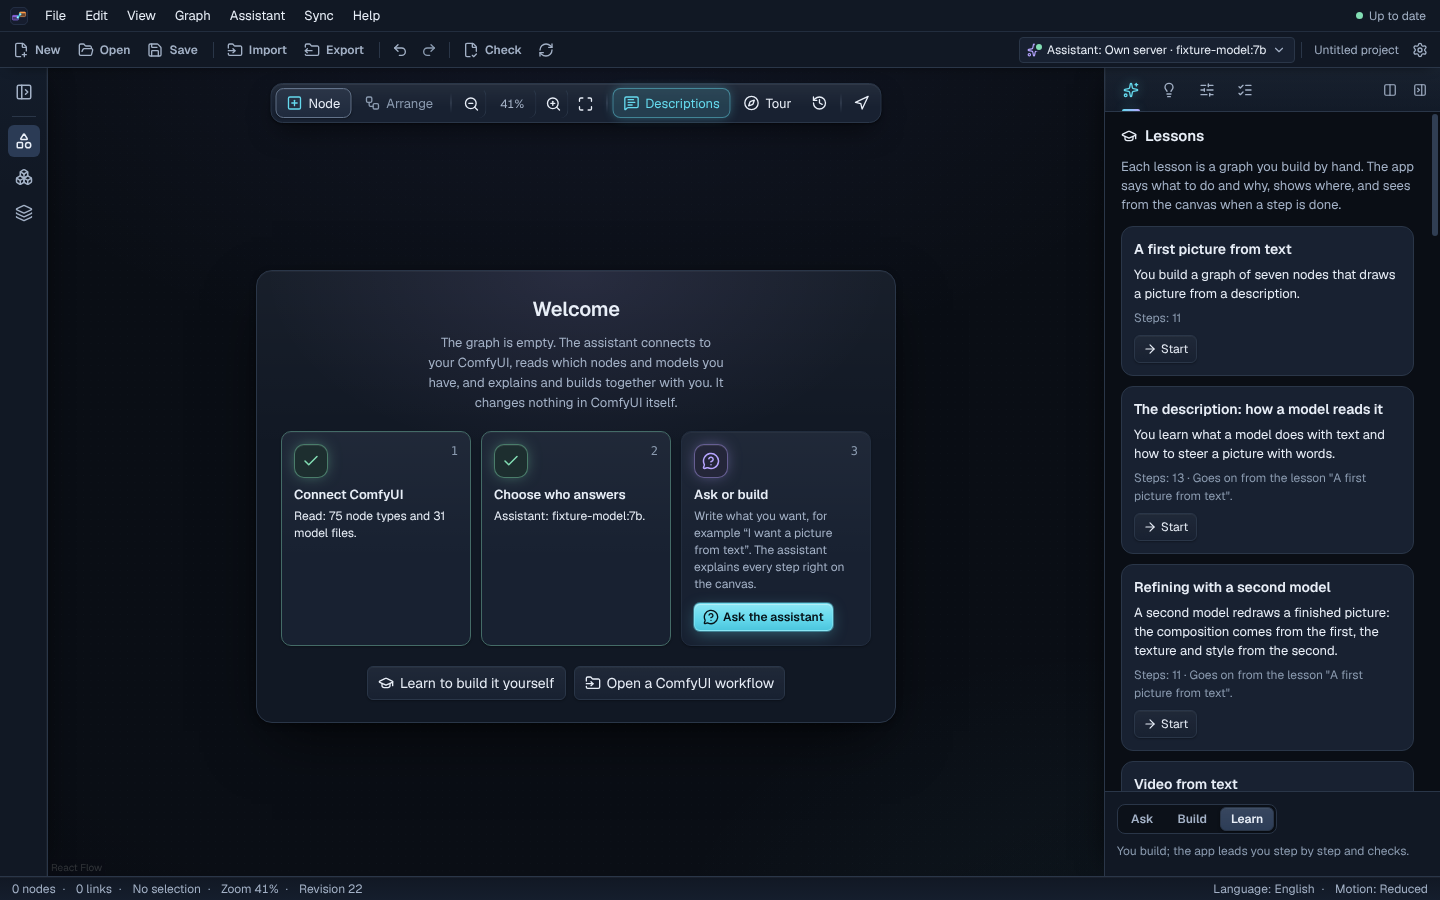
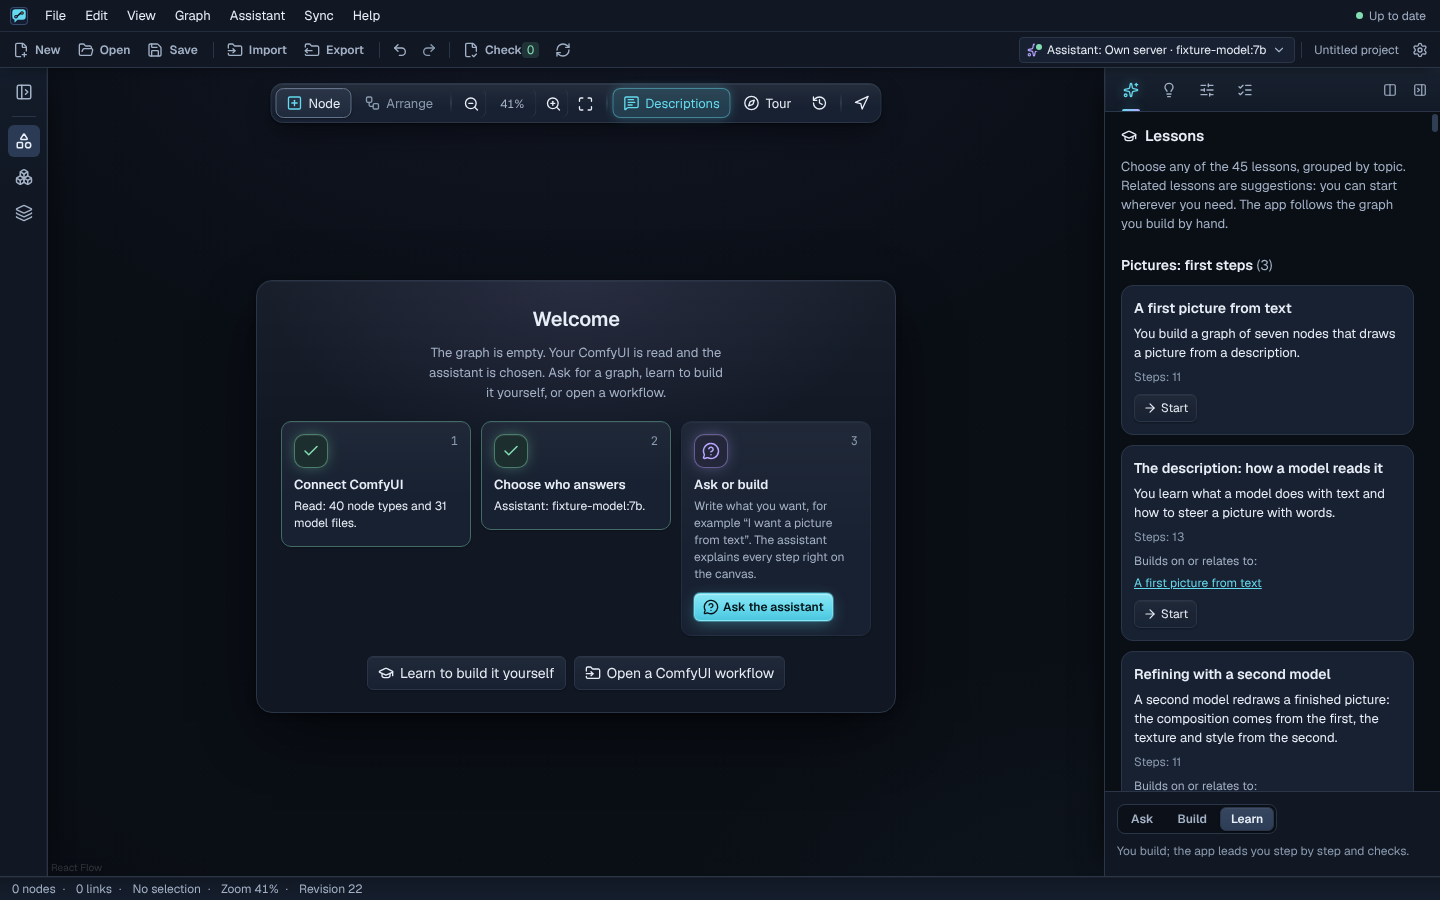
pictures: the first-start path through a plain ComfyUI, fresh pictures from 0.9.0
The capture now starts the fake ComfyUI (on 8188 when free) and goes the way a new
person does: Connect… on the welcome card, Find on this computer, Check ComfyUI,
Save, Read ComfyUI. 11-settings-connection shows that dialog; the lessons picture
shows the grouped list. All thirteen pictures in both languages, hero.png and
social-preview.png are made again from this build.

Claude-Session: https://claude.ai/code/session_01BDQbvdTJWeFGcfZcoqW545

diff --git a/tests/e2e/public-shots/public.test.ts b/tests/e2e/public-shots/public.test.ts
@@ -3,7 +3,7 @@ import * as fs from 'fs';
 import * as os from 'os';
 import * as path from 'path';
 import { createTranslator } from '../../../src/shared/i18n';
-import { startFakeMcp, type FakeMcp } from '../../fixtures/mcp/fakeMcpServer';
+import { startFakeComfy, type FakeComfy } from '../../fixtures/comfy/fakeComfy';
 import { nestedSubgraphWorkflow } from '../fixtures/nestedSubgraphWorkflow';
 import { startShowcaseLlm, SHOWCASE_MODEL, SHOWCASE_QUESTIONS, type ShowcaseLanguage, type ShowcaseLlm } from './showcaseLlm';
 import { PUBLIC_SHOTS } from './shotList';
@@ -70,7 +70,15 @@ for (const language of LANGUAGES) {
     const T = createTranslator(language);
     const t = (key: string, values?: Record<string, unknown>) => String(T(key, values as never));
     fs.mkdirSync(path.join(ROOT, language), { recursive: true });
-    const mcp: FakeMcp = await startFakeMcp({ video: true });
+    // A plain ComfyUI, as most people have it: on 8188 when that port is free, so "Find on this computer" finds it.
+    let comfy: FakeComfy;
+    let found = true;
+    try {
+      comfy = await startFakeComfy({ manager: true, port: 8188 });
+    } catch {
+      found = false;
+      comfy = await startFakeComfy({ manager: true });
+    }
     const llm: ShowcaseLlm = await startShowcaseLlm(language);
     const userData = fs.mkdtempSync(path.join(os.tmpdir(), 'public-shots-'));
     const env: Record<string, string | undefined> = { ...process.env, NODE_ENV: 'production' };
@@ -167,11 +175,30 @@ for (const language of LANGUAGES) {
         await shoot(page, language, '01-first-start');
       });
 
-      // Connected: the test MCP server answers for ComfyUI, the showcase server for the assistant.
-      await saveSettings({ mcpUrl: mcp.url, mcpAuth: 'none', provider: 'local', baseURL: `${llm.origin}/v1`, model: SHOWCASE_MODEL });
-      await api(page, 'syncNow').catch(() => undefined);
-      await expect.poll(async () => ((await api(page, 'syncStatus')) as { state: string }).state, { timeout: 90_000 }).not.toBe('running');
-      await reload();
+      // The first-start path a person takes: Connect… on the welcome card, find ComfyUI, check it, save, read it.
+      const settings = page.locator('[role="dialog"].settings-dialog');
+      await state('11-settings-connection', async () => {
+        await page.locator('[data-step="connect"]').getByRole('button', { name: t('canvas.onboardConnect') }).click();
+        await settings.waitFor({ timeout: 10_000 });
+        const address = settings.getByRole('textbox', { name: t('settings.comfyOrigin'), exact: true });
+        if (found) {
+          await settings.getByRole('button', { name: t('settings.comfyFind'), exact: true }).click();
+          await expect(address).toHaveValue(comfy.url, { timeout: 15_000 });
+        } else {
+          // Port 8188 is taken on this machine: the address is typed, as a person would after reading the hint.
+          await address.fill(comfy.url);
+        }
+        await settings.getByRole('button', { name: t('settings.comfyCheck'), exact: true }).click();
+        await expect(settings.getByText(/0\.45\.0/)).toBeVisible({ timeout: 15_000 });
+        await page.evaluate(() => (document.activeElement as HTMLElement | null)?.blur());
+        await shoot(page, language, '11-settings-connection');
+        await settings.getByRole('button', { name: t('settings.save'), exact: true }).click();
+        await expect(settings).toHaveCount(0);
+      });
+      await page.locator('[data-step="connect"]').getByRole('button', { name: t('canvas.onboardRead') }).click();
+      await expect(page.locator('.sync-indicator')).toHaveAttribute('data-sync-state', 'idle', { timeout: 90_000 });
+      // The assistant: a model server on this computer (the showcase server stands in for it).
+      await saveSettings({ provider: 'local', baseURL: `${llm.origin}/v1`, model: SHOWCASE_MODEL });
 
       await state('02-canvas-explained', async () => {
         await openWorkflow(textToPictureWorkflow(language));
@@ -184,15 +211,11 @@ for (const language of LANGUAGES) {
         // One step closer, so the node reads at a glance; the card under it opens to its full description.
         await page.locator('.react-flow__controls-zoomin').click();
         await page.waitForTimeout(350);
-        // The opened card hangs below the node: the view moves up so the card is whole.
-        await page.mouse.move(900, 780);
-        await page.mouse.down();
-        await page.mouse.move(900, 640, { steps: 8 });
-        await page.mouse.up();
-        await page.waitForTimeout(300);
         const sampleId = await sampler.getAttribute('data-id');
         const card = page.locator(`.description-card[data-description-node="${sampleId}"]`);
-        await card.locator('[aria-expanded="false"]').first().click();
+        // Selecting a node opens its card; an older build left it closed, so it is opened only when it is.
+        const closed = card.locator('[aria-expanded="false"]').first();
+        if (await closed.isVisible().catch(() => false)) await closed.click();
         await expect(card.locator('[aria-expanded="true"]').first()).toBeVisible();
         await shoot(page, language, '02-canvas-explained');
       });
@@ -315,7 +338,6 @@ for (const language of LANGUAGES) {
         await shoot(page, language, '10-large-workflow');
       });
 
-      const settings = page.locator('[role="dialog"].settings-dialog');
       const section = async (index: number) => {
         if (await settings.count() === 0) {
           await page.keyboard.press('Control+,');
@@ -326,7 +348,6 @@ for (const language of LANGUAGES) {
         // The section is shown as it opens, without a focus ring the keyboard did not ask for.
         await page.evaluate(() => (document.activeElement as HTMLElement | null)?.blur());
       };
-      await state('11-settings-connection', async () => { await section(1); await shoot(page, language, '11-settings-connection'); });
       await state('12-settings-assistant', async () => { await section(0); await shoot(page, language, '12-settings-assistant'); });
       await page.keyboard.press('Escape');
       await expect(settings).toHaveCount(0);
@@ -341,7 +362,7 @@ for (const language of LANGUAGES) {
     } finally {
       await app?.close().catch(() => undefined);
       await llm.close();
-      await mcp.close();
+      await comfy.close();
       fs.rmSync(userData, { recursive: true, force: true });
     }
   });
